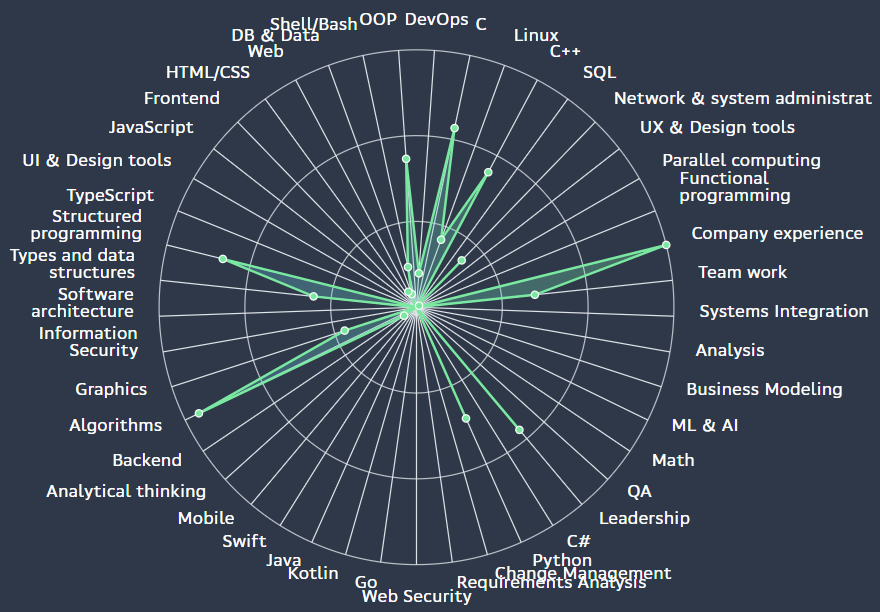
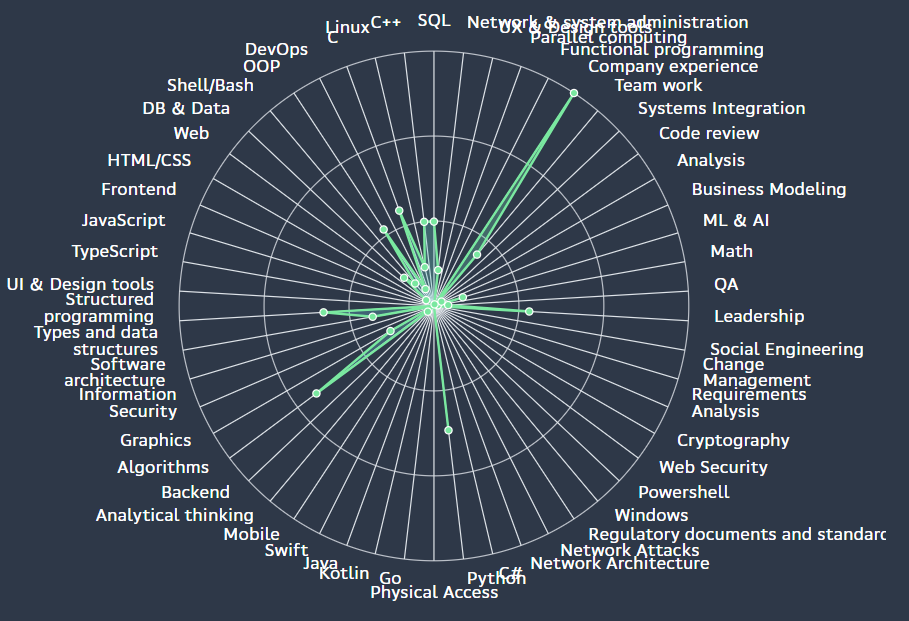
Edit README.md

Changed region(s): [[0.0, 0.0, 1.0, 0.9935]]

diff --git a/README.md b/README.md
@@ -2,59 +2,91 @@
 
 <!-- School 21 Logo -->
 <p align="center">
-    <img src="https://sun9-38.userapi.com/impg/KJR2NK87iyCNo7L8oZ9379FOTBF2nQJJ3mWvZw/mFRmaBUOkuk.jpg?size=480x360&quality=96&sign=8ffee636080944c3067db7ad320c8400&type=album" alt="School 21 Logo" />
+    <img
+    src="https://sun9-38.userapi.com/impg/KJR2NK87iyCNo7L8oZ9379FOTBF2nQJJ3mWvZw/mFRmaBUOkuk.jpg?size=480x360&quality=96&sign=8ffee636080944c3067db7ad320c8400&type=album"
+    alt="School 21 Logo"
+    />
 </p>
+
+## *School 21* Description
+
+**School 2⃣1⃣** (the analogue of the *School 4⃣2⃣*) — is a free digital
+technology school.
+It offers: free and non-profit education without: traditional teachers, lessons,
+grades.
+Students learn teamwork and project activities.
 
 ## Repository Description
 
-This repository is a collection of projects written while studying at
-*School 2⃣1⃣*.
+A repository is a collection of completed *School 2⃣1⃣* projects.
 
-## School 21 Description
+## Source Repository File Structure
 
-**School 2⃣1⃣** (the analogue of the *School 4⃣2⃣*) — free digital technology
-school.
-This is an innovative approach to learning programming.
-It offers free, non-profit education without traditional teachers, lessons, and
-grades.
-Instead, students learn through teamwork and project activities.
-
-## Repository File Structure
-
-- *content*: the material necessary for the design of the repository and it's
+- `content`: a folder with materials for the design of the repository and its
   elements.
-- *project_clusters*: a set of projects where each project consists of small
-  projects united by one common theme.
-- *projects*: a set of projects where each project represents the final product.
-- *.markdownlint.json*: the main configuration file *README.md* file.
-- *README.md*: the description file of the current repository (you are reading
-  it now).
+- `project_clusters`: a folder with projects, where each project consists of
+  small projects united by a theme.
+- `projects`: a folder of projects, each of which represents a product.
+- `.markdownlint.json`: the configuration file `README.md` file.
+- `README.md`: the description file of the repository (you read it).
 
-## Education Account Description
+## About My Platform Account
 
-### General
+### General Information
 
-- Nickname: *charisel*.
-- Campus: *Moscow*.
-- Program: *Core program*.
-- Wawe: 22.10.
-- Level: **11**.
-- E-mail: <charisel@student.21-school.ru>.
+- Campus location: *Moscow*
+- Wawe: 10.2022
+- Nickname: *charisel*
+- Program: *Core program*
+- Level: 12
+- XP: 20055
+- *E-mail*: <charisel@student.21-school.ru>
 
-### Points
+### Acquired Skills
 
-- XP: **16160**.
+<!-- Acquired Skills Wheel Photo -->
+<img
+    src="content/images/profile/skill_wheel.png"
+    alt="Skill Wheel"
+/>
 
-### Peer Feedback
+| Skill Name: | Skill Points: |
+|:------------:|:--------------------:|
+| Math | 55 |
+| *QA* | 200 |
+| *C* | 1423 |
+| *OOP* | 1284 |
+| *C++* | 1188 |
+| *SQL* | 1183 |
+| DevOps | 264 |
+| *Linux* | 558 |
+| Backend | 117 |
+| Analysis | 122 |
+| Graphics | 704 |
+| *Python* | 1756 |
+| Team Work | 940 |
+| DB & Data | 576 |
+| *ML* & *AI* | 423 |
+| Algorithms | 2055 |
+| Leadership | 1339 |
+| Web Development | 136 |
+| *Shell* & *Bash* | 411 |
+| Parallel Computing | 23 |
+| Company Experience | 3574 |
+| Structured Programming | 1551 |
+| Types & Data Structures | 873 |
+| Network & System Administration | 506 |
+
+### Peers Feedback
 
 - Nice: 4/4 😃
 - Punctual: 4/4 ⏲
 - Rigorous: 4/4 ⚖
 - Interested: 4/4 ❓
 
-All peer reviews: 133.
+All peer reviews: 187
 
-### Badges
+### Learning Badges
 
 #### Edu Progress
 
@@ -177,28 +209,3 @@ All peer reviews: 133.
 
 <!-- Badge Photo -->
 <img src="content/images/badges/14_febrarue.png" width="100" height="100" alt="Will you be my peer?">
-
-### Skills
-
-<!-- Skill Wheel Photo -->
-<img src="content/images/profile/skill_wheel.png" alt="Skill Wheel">
-
-- *C*: **1423**.
-- *Web*: **136**.
-- *C++*: **1188**.
-- *OOP*: **1156**.
-- *Linux*: **558**.
-- *Python*: **946**.
-- *DevOps*: **264**.
-- Graphics: **587**.
-- *Backend*: **117**.
-- Team work: **925**.
-- DB & Data: **109**.
-- Algorithms: **1881**.
-- Leadership: **1244**.
-- *Shell* / *Bash*: **319**.
-- Parallel computing: **23**.
-- Company experience: **3574**.
-- Types & data structures: **804**.
-- *Structured programming*: **1551**.
-- Network & System administration: **506**.
